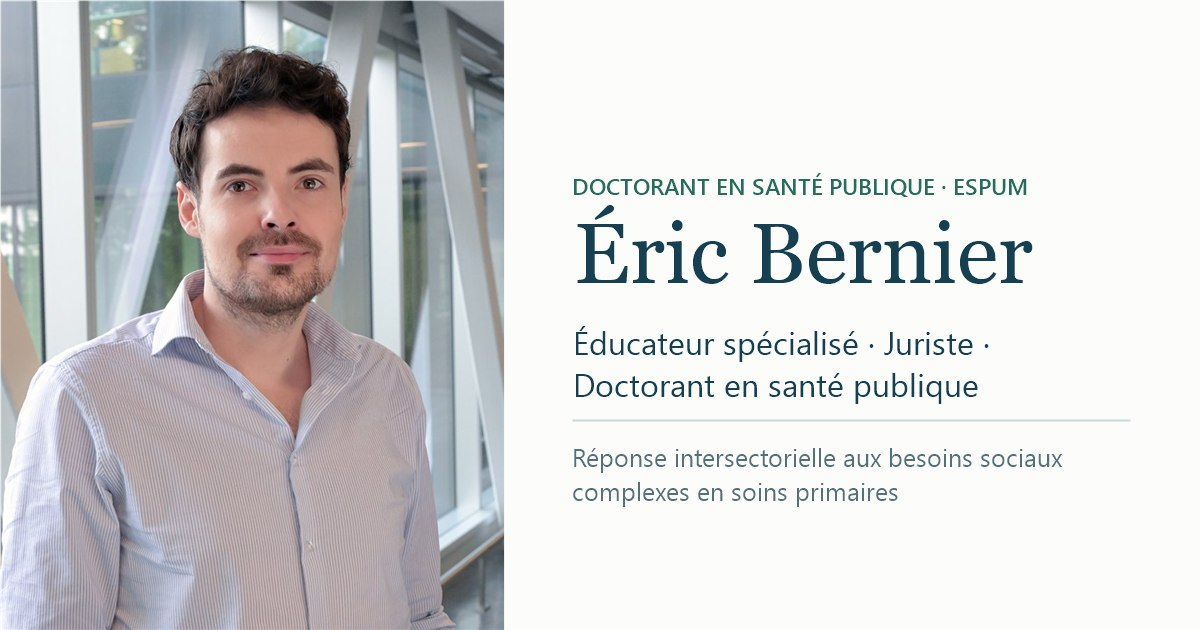
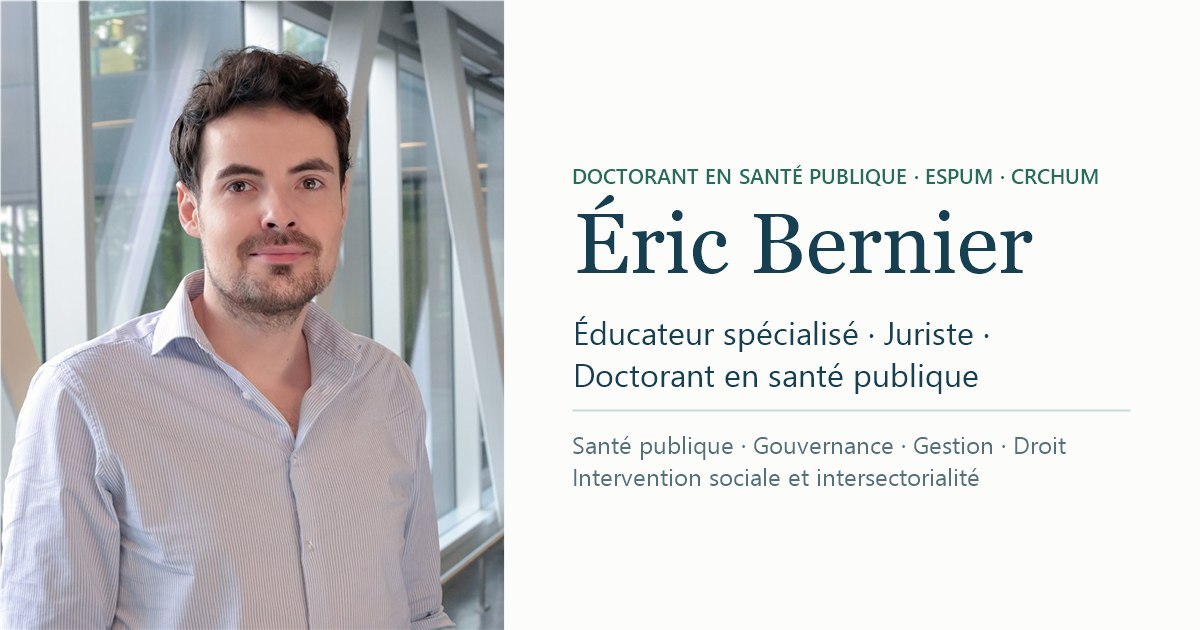
CRCHUM dans l'en-tête de l'accueil, les titres de page et l'image de partage

Changed region(s): [[0.4625, 0.5127, 0.925, 0.8143], [0.4625, 0.2714, 0.925, 0.4524]]

diff --git a/es/index.html b/es/index.html
@@ -3,7 +3,7 @@
 <head>
 <meta charset="utf-8">
 <meta name="viewport" content="width=device-width,initial-scale=1">
-<title>Éric Bernier — Doctorando en salud pública, ESPUM</title>
+<title>Éric Bernier — Doctorando en salud pública, ESPUM y CRCHUM</title>
 <meta name="description" content="Éric Bernier, doctorando en salud pública (sistemas, organizaciones y políticas de salud) en la ESPUM, Université de Montréal, jurista y educador especializado. Investigación sobre la respuesta intersectorial a las necesidades sociales complejas en atención primaria.">
 <meta name="theme-color" content="#fcfdfb">
 <link rel="canonical" href="https://erjb-web.github.io/es/">
@@ -14,13 +14,13 @@
 <link rel="icon" href="../assets/favicon.svg" type="image/svg+xml">
 <link rel="stylesheet" href="../assets/site.css?v=9247cd22b4">
 <meta property="og:type" content="profile">
-<meta property="og:title" content="Éric Bernier — Doctorando en salud pública, ESPUM">
+<meta property="og:title" content="Éric Bernier — Doctorando en salud pública, ESPUM y CRCHUM">
 <meta property="og:description" content="Éric Bernier, doctorando en salud pública (sistemas, organizaciones y políticas de salud) en la ESPUM, Université de Montréal, jurista y educador especializado. Investigación sobre la respuesta intersectorial a las necesidades sociales complejas en atención primaria.">
 <meta property="og:image" content="https://erjb-web.github.io/assets/apercu.jpg">
 <meta property="og:url" content="https://erjb-web.github.io/es/">
 <meta property="og:locale" content="es_ES">
 <meta name="twitter:card" content="summary_large_image">
-<script type="application/ld+json">{"@context":"https://schema.org","@type":"Person","name":"Éric Bernier","url":"https://erjb-web.github.io/","image":"https://erjb-web.github.io/assets/portrait.jpg","jobTitle":"Doctorando en salud pública · ESPUM","email":"mailto:eric.bernier.1@umontreal.ca","affiliation":[{"@type":"CollegeOrUniversity","name":"École de santé publique de l’Université de Montréal (ESPUM)"},{"@type":"ResearchOrganization","name":"Centre de recherche du CHUM (CRCHUM)"}],"alumniOf":[{"@type":"CollegeOrUniversity","name":"Université Paris Panthéon-Assas"},{"@type":"CollegeOrUniversity","name":"Université de Bretagne Occidentale"}],"knowsAbout":["Gobernanza y evaluación de las políticas de salud","Enfoque intersectorial en atención primaria","Envejecimiento, pérdida de autonomía y políticas de permanencia en el domicilio"],"sameAs":["https://orcid.org/0009-0001-4236-4932","https://www.linkedin.com/in/eric-b-5aa52b250"]}</script>
+<script type="application/ld+json">{"@context":"https://schema.org","@type":"Person","name":"Éric Bernier","url":"https://erjb-web.github.io/","image":"https://erjb-web.github.io/assets/portrait.jpg","jobTitle":"Doctorando en salud pública · ESPUM · CRCHUM","email":"mailto:eric.bernier.1@umontreal.ca","affiliation":[{"@type":"CollegeOrUniversity","name":"École de santé publique de l’Université de Montréal (ESPUM)"},{"@type":"ResearchOrganization","name":"Centre de recherche du CHUM (CRCHUM)"}],"alumniOf":[{"@type":"CollegeOrUniversity","name":"Université Paris Panthéon-Assas"},{"@type":"CollegeOrUniversity","name":"Université de Bretagne Occidentale"}],"knowsAbout":["Gobernanza y evaluación de las políticas de salud","Enfoque intersectorial en atención primaria","Envejecimiento, pérdida de autonomía y políticas de permanencia en el domicilio"],"sameAs":["https://orcid.org/0009-0001-4236-4932","https://www.linkedin.com/in/eric-b-5aa52b250"]}</script>
 <script src="../assets/site.js?v=3ad0969792" defer></script>
 </head>
 <body>
@@ -39,7 +39,7 @@
 <div class="presentation">
 <div class="identite">
 <img class="portrait" src="../assets/portrait.jpg" width="720" height="900" alt="Retrato de Éric Bernier">
-<div><p class="surtitre">Doctorando en salud pública · ESPUM</p><h1 id="nom">Éric Bernier</h1><p class="roles">Educador especializado · Jurista · Doctorando en salud pública</p></div>
+<div><p class="surtitre">Doctorando en salud pública · ESPUM · CRCHUM</p><h1 id="nom">Éric Bernier</h1><p class="roles">Educador especializado · Jurista · Doctorando en salud pública</p></div>
 </div>
 <p class="chapeau">Una misma atención a las personas, a sus derechos y a los servicios que las acompañan. Mi trayectoria cruza la práctica educativa, el derecho público y la investigación en sistemas, organizaciones y políticas de salud.</p>
 <p class="encadrement">Tesis codirigida por la Dra. Nadia Sourial, Ph. D., y la Dra. Géraldine Layani, M.D. · Cátedra de investigación GSK en gestión óptima de enfermedades crónicas · CRCHUM · Becario del FRQ (B2)</p>

diff --git a/index.html b/index.html
@@ -3,7 +3,7 @@
 <head>
 <meta charset="utf-8">
 <meta name="viewport" content="width=device-width,initial-scale=1">
-<title>Éric Bernier — Doctorant en santé publique, ESPUM</title>
+<title>Éric Bernier — Doctorant en santé publique, ESPUM et CRCHUM</title>
 <meta name="description" content="Éric Bernier, doctorant en santé publique (systèmes, organisations et politiques de santé) à l’ESPUM, juriste et éducateur spécialisé. Recherche sur la réponse intersectorielle aux besoins sociaux complexes en soins primaires.">
 <meta name="theme-color" content="#fcfdfb">
 <link rel="canonical" href="https://erjb-web.github.io/">
@@ -14,13 +14,13 @@
 <link rel="icon" href="assets/favicon.svg" type="image/svg+xml">
 <link rel="stylesheet" href="assets/site.css?v=9247cd22b4">
 <meta property="og:type" content="profile">
-<meta property="og:title" content="Éric Bernier — Doctorant en santé publique, ESPUM">
+<meta property="og:title" content="Éric Bernier — Doctorant en santé publique, ESPUM et CRCHUM">
 <meta property="og:description" content="Éric Bernier, doctorant en santé publique (systèmes, organisations et politiques de santé) à l’ESPUM, juriste et éducateur spécialisé. Recherche sur la réponse intersectorielle aux besoins sociaux complexes en soins primaires.">
 <meta property="og:image" content="https://erjb-web.github.io/assets/apercu.jpg">
 <meta property="og:url" content="https://erjb-web.github.io/">
 <meta property="og:locale" content="fr_CA">
 <meta name="twitter:card" content="summary_large_image">
-<script type="application/ld+json">{"@context":"https://schema.org","@type":"Person","name":"Éric Bernier","url":"https://erjb-web.github.io/","image":"https://erjb-web.github.io/assets/portrait.jpg","jobTitle":"Doctorant en santé publique · ESPUM","email":"mailto:eric.bernier.1@umontreal.ca","affiliation":[{"@type":"CollegeOrUniversity","name":"École de santé publique de l’Université de Montréal (ESPUM)"},{"@type":"ResearchOrganization","name":"Centre de recherche du CHUM (CRCHUM)"}],"alumniOf":[{"@type":"CollegeOrUniversity","name":"Université Paris Panthéon-Assas"},{"@type":"CollegeOrUniversity","name":"Université de Bretagne Occidentale"}],"knowsAbout":["Gouvernance et évaluation des politiques de santé","Approche intersectorielle en première ligne","Vieillissement, perte d’autonomie et politiques du maintien à domicile"],"sameAs":["https://orcid.org/0009-0001-4236-4932","https://www.linkedin.com/in/eric-b-5aa52b250"]}</script>
+<script type="application/ld+json">{"@context":"https://schema.org","@type":"Person","name":"Éric Bernier","url":"https://erjb-web.github.io/","image":"https://erjb-web.github.io/assets/portrait.jpg","jobTitle":"Doctorant en santé publique · ESPUM · CRCHUM","email":"mailto:eric.bernier.1@umontreal.ca","affiliation":[{"@type":"CollegeOrUniversity","name":"École de santé publique de l’Université de Montréal (ESPUM)"},{"@type":"ResearchOrganization","name":"Centre de recherche du CHUM (CRCHUM)"}],"alumniOf":[{"@type":"CollegeOrUniversity","name":"Université Paris Panthéon-Assas"},{"@type":"CollegeOrUniversity","name":"Université de Bretagne Occidentale"}],"knowsAbout":["Gouvernance et évaluation des politiques de santé","Approche intersectorielle en première ligne","Vieillissement, perte d’autonomie et politiques du maintien à domicile"],"sameAs":["https://orcid.org/0009-0001-4236-4932","https://www.linkedin.com/in/eric-b-5aa52b250"]}</script>
 <script src="assets/site.js?v=3ad0969792" defer></script>
 </head>
 <body>
@@ -39,7 +39,7 @@
 <div class="presentation">
 <div class="identite">
 <img class="portrait" src="assets/portrait.jpg" width="720" height="900" alt="Portrait d’Éric Bernier">
-<div><p class="surtitre">Doctorant en santé publique · ESPUM</p><h1 id="nom">Éric Bernier</h1><p class="roles">Éducateur spécialisé · Juriste · Doctorant en santé publique</p></div>
+<div><p class="surtitre">Doctorant en santé publique · ESPUM · CRCHUM</p><h1 id="nom">Éric Bernier</h1><p class="roles">Éducateur spécialisé · Juriste · Doctorant en santé publique</p></div>
 </div>
 <p class="chapeau">Une même attention aux personnes, à leurs droits et aux services qui les accompagnent. Mon parcours croise la pratique éducative, le droit public et la recherche en systèmes, organisations et politiques de santé.</p>
 <p class="encadrement">Thèse codirigée par les Dres Nadia Sourial, Ph. D., et Géraldine Layani, M.D. · Chaire de recherche GSK en gestion optimale des maladies chroniques · CRCHUM · Boursier FRQ (B2)</p>

diff --git a/en/index.html b/en/index.html
@@ -3,7 +3,7 @@
 <head>
 <meta charset="utf-8">
 <meta name="viewport" content="width=device-width,initial-scale=1">
-<title>Éric Bernier — PhD student in public health, ESPUM</title>
+<title>Éric Bernier — PhD student in public health, ESPUM and CRCHUM</title>
 <meta name="description" content="Éric Bernier, PhD student in public health (health systems, organisations and policy) at ESPUM, Université de Montréal, trained in law and special needs education. Research on intersectoral responses to complex social needs in primary care.">
 <meta name="theme-color" content="#fcfdfb">
 <link rel="canonical" href="https://erjb-web.github.io/en/">
@@ -14,13 +14,13 @@
 <link rel="icon" href="../assets/favicon.svg" type="image/svg+xml">
 <link rel="stylesheet" href="../assets/site.css?v=9247cd22b4">
 <meta property="og:type" content="profile">
-<meta property="og:title" content="Éric Bernier — PhD student in public health, ESPUM">
+<meta property="og:title" content="Éric Bernier — PhD student in public health, ESPUM and CRCHUM">
 <meta property="og:description" content="Éric Bernier, PhD student in public health (health systems, organisations and policy) at ESPUM, Université de Montréal, trained in law and special needs education. Research on intersectoral responses to complex social needs in primary care.">
 <meta property="og:image" content="https://erjb-web.github.io/assets/apercu.jpg">
 <meta property="og:url" content="https://erjb-web.github.io/en/">
 <meta property="og:locale" content="en_CA">
 <meta name="twitter:card" content="summary_large_image">
-<script type="application/ld+json">{"@context":"https://schema.org","@type":"Person","name":"Éric Bernier","url":"https://erjb-web.github.io/","image":"https://erjb-web.github.io/assets/portrait.jpg","jobTitle":"PhD student in public health · ESPUM","email":"mailto:eric.bernier.1@umontreal.ca","affiliation":[{"@type":"CollegeOrUniversity","name":"École de santé publique de l’Université de Montréal (ESPUM)"},{"@type":"ResearchOrganization","name":"Centre de recherche du CHUM (CRCHUM)"}],"alumniOf":[{"@type":"CollegeOrUniversity","name":"Université Paris Panthéon-Assas"},{"@type":"CollegeOrUniversity","name":"Université de Bretagne Occidentale"}],"knowsAbout":["Governance and evaluation of health policy","Intersectoral approaches in primary care","Ageing, loss of autonomy and ageing-in-place policies"],"sameAs":["https://orcid.org/0009-0001-4236-4932","https://www.linkedin.com/in/eric-b-5aa52b250"]}</script>
+<script type="application/ld+json">{"@context":"https://schema.org","@type":"Person","name":"Éric Bernier","url":"https://erjb-web.github.io/","image":"https://erjb-web.github.io/assets/portrait.jpg","jobTitle":"PhD student in public health · ESPUM · CRCHUM","email":"mailto:eric.bernier.1@umontreal.ca","affiliation":[{"@type":"CollegeOrUniversity","name":"École de santé publique de l’Université de Montréal (ESPUM)"},{"@type":"ResearchOrganization","name":"Centre de recherche du CHUM (CRCHUM)"}],"alumniOf":[{"@type":"CollegeOrUniversity","name":"Université Paris Panthéon-Assas"},{"@type":"CollegeOrUniversity","name":"Université de Bretagne Occidentale"}],"knowsAbout":["Governance and evaluation of health policy","Intersectoral approaches in primary care","Ageing, loss of autonomy and ageing-in-place policies"],"sameAs":["https://orcid.org/0009-0001-4236-4932","https://www.linkedin.com/in/eric-b-5aa52b250"]}</script>
 <script src="../assets/site.js?v=3ad0969792" defer></script>
 </head>
 <body>
@@ -39,7 +39,7 @@
 <div class="presentation">
 <div class="identite">
 <img class="portrait" src="../assets/portrait.jpg" width="720" height="900" alt="Portrait of Éric Bernier">
-<div><p class="surtitre">PhD student in public health · ESPUM</p><h1 id="nom">Éric Bernier</h1><p class="roles">Special needs educator · Jurist · PhD student in public health</p></div>
+<div><p class="surtitre">PhD student in public health · ESPUM · CRCHUM</p><h1 id="nom">Éric Bernier</h1><p class="roles">Special needs educator · Jurist · PhD student in public health</p></div>
 </div>
 <p class="chapeau">The same attention to people, to their rights and to the services that support them. My path brings together educational practice, public law and research on health systems, organisations and policy.</p>
 <p class="encadrement">Thesis co-supervised by Dr. Nadia Sourial, PhD, and Dr. Géraldine Layani, MD · GSK Research Chair in optimal management of chronic diseases · CRCHUM · FRQ doctoral scholar (B2)</p>

diff --git a/outils/contenu.js b/outils/contenu.js
@@ -39,7 +39,7 @@ const fr = {
   locale: "fr_CA",
   chemin: "",
   meta: {
-    titre: "Éric Bernier — Doctorant en santé publique, ESPUM",
+    titre: "Éric Bernier — Doctorant en santé publique, ESPUM et CRCHUM",
     description:
       "Éric Bernier, doctorant en santé publique (systèmes, organisations et politiques de santé) à l’ESPUM, juriste et éducateur spécialisé. Recherche sur la réponse intersectorielle aux besoins sociaux complexes en soins primaires.",
   },
@@ -66,7 +66,7 @@ const fr = {
     ["contact", "Contact"],
   ],
   accueil: {
-    surtitre: "Doctorant en santé publique · ESPUM",
+    surtitre: "Doctorant en santé publique · ESPUM · CRCHUM",
     roles: "Éducateur spécialisé · Juriste · Doctorant en santé publique",
     chapeau:
       "Une même attention aux personnes, à leurs droits et aux services qui les accompagnent. Mon parcours croise la pratique éducative, le droit public et la recherche en systèmes, organisations et politiques de santé.",
@@ -379,7 +379,7 @@ const en = {
   locale: "en_CA",
   chemin: "../",
   meta: {
-    titre: "Éric Bernier — PhD student in public health, ESPUM",
+    titre: "Éric Bernier — PhD student in public health, ESPUM and CRCHUM",
     description:
       "Éric Bernier, PhD student in public health (health systems, organisations and policy) at ESPUM, Université de Montréal, trained in law and special needs education. Research on intersectoral responses to complex social needs in primary care.",
   },
@@ -406,7 +406,7 @@ const en = {
     ["contact", "Contact"],
   ],
   accueil: {
-    surtitre: "PhD student in public health · ESPUM",
+    surtitre: "PhD student in public health · ESPUM · CRCHUM",
     roles: "Special needs educator · Jurist · PhD student in public health",
     chapeau:
       "The same attention to people, to their rights and to the services that support them. My path brings together educational practice, public law and research on health systems, organisations and policy.",
@@ -719,7 +719,7 @@ const es = {
   locale: "es_ES",
   chemin: "../",
   meta: {
-    titre: "Éric Bernier — Doctorando en salud pública, ESPUM",
+    titre: "Éric Bernier — Doctorando en salud pública, ESPUM y CRCHUM",
     description:
       "Éric Bernier, doctorando en salud pública (sistemas, organizaciones y políticas de salud) en la ESPUM, Université de Montréal, jurista y educador especializado. Investigación sobre la respuesta intersectorial a las necesidades sociales complejas en atención primaria.",
   },
@@ -746,7 +746,7 @@ const es = {
     ["contact", "Contacto"],
   ],
   accueil: {
-    surtitre: "Doctorando en salud pública · ESPUM",
+    surtitre: "Doctorando en salud pública · ESPUM · CRCHUM",
     roles: "Educador especializado · Jurista · Doctorando en salud pública",
     chapeau:
       "Una misma atención a las personas, a sus derechos y a los servicios que las acompañan. Mi trayectoria cruza la práctica educativa, el derecho público y la investigación en sistemas, organizaciones y políticas de salud.",
